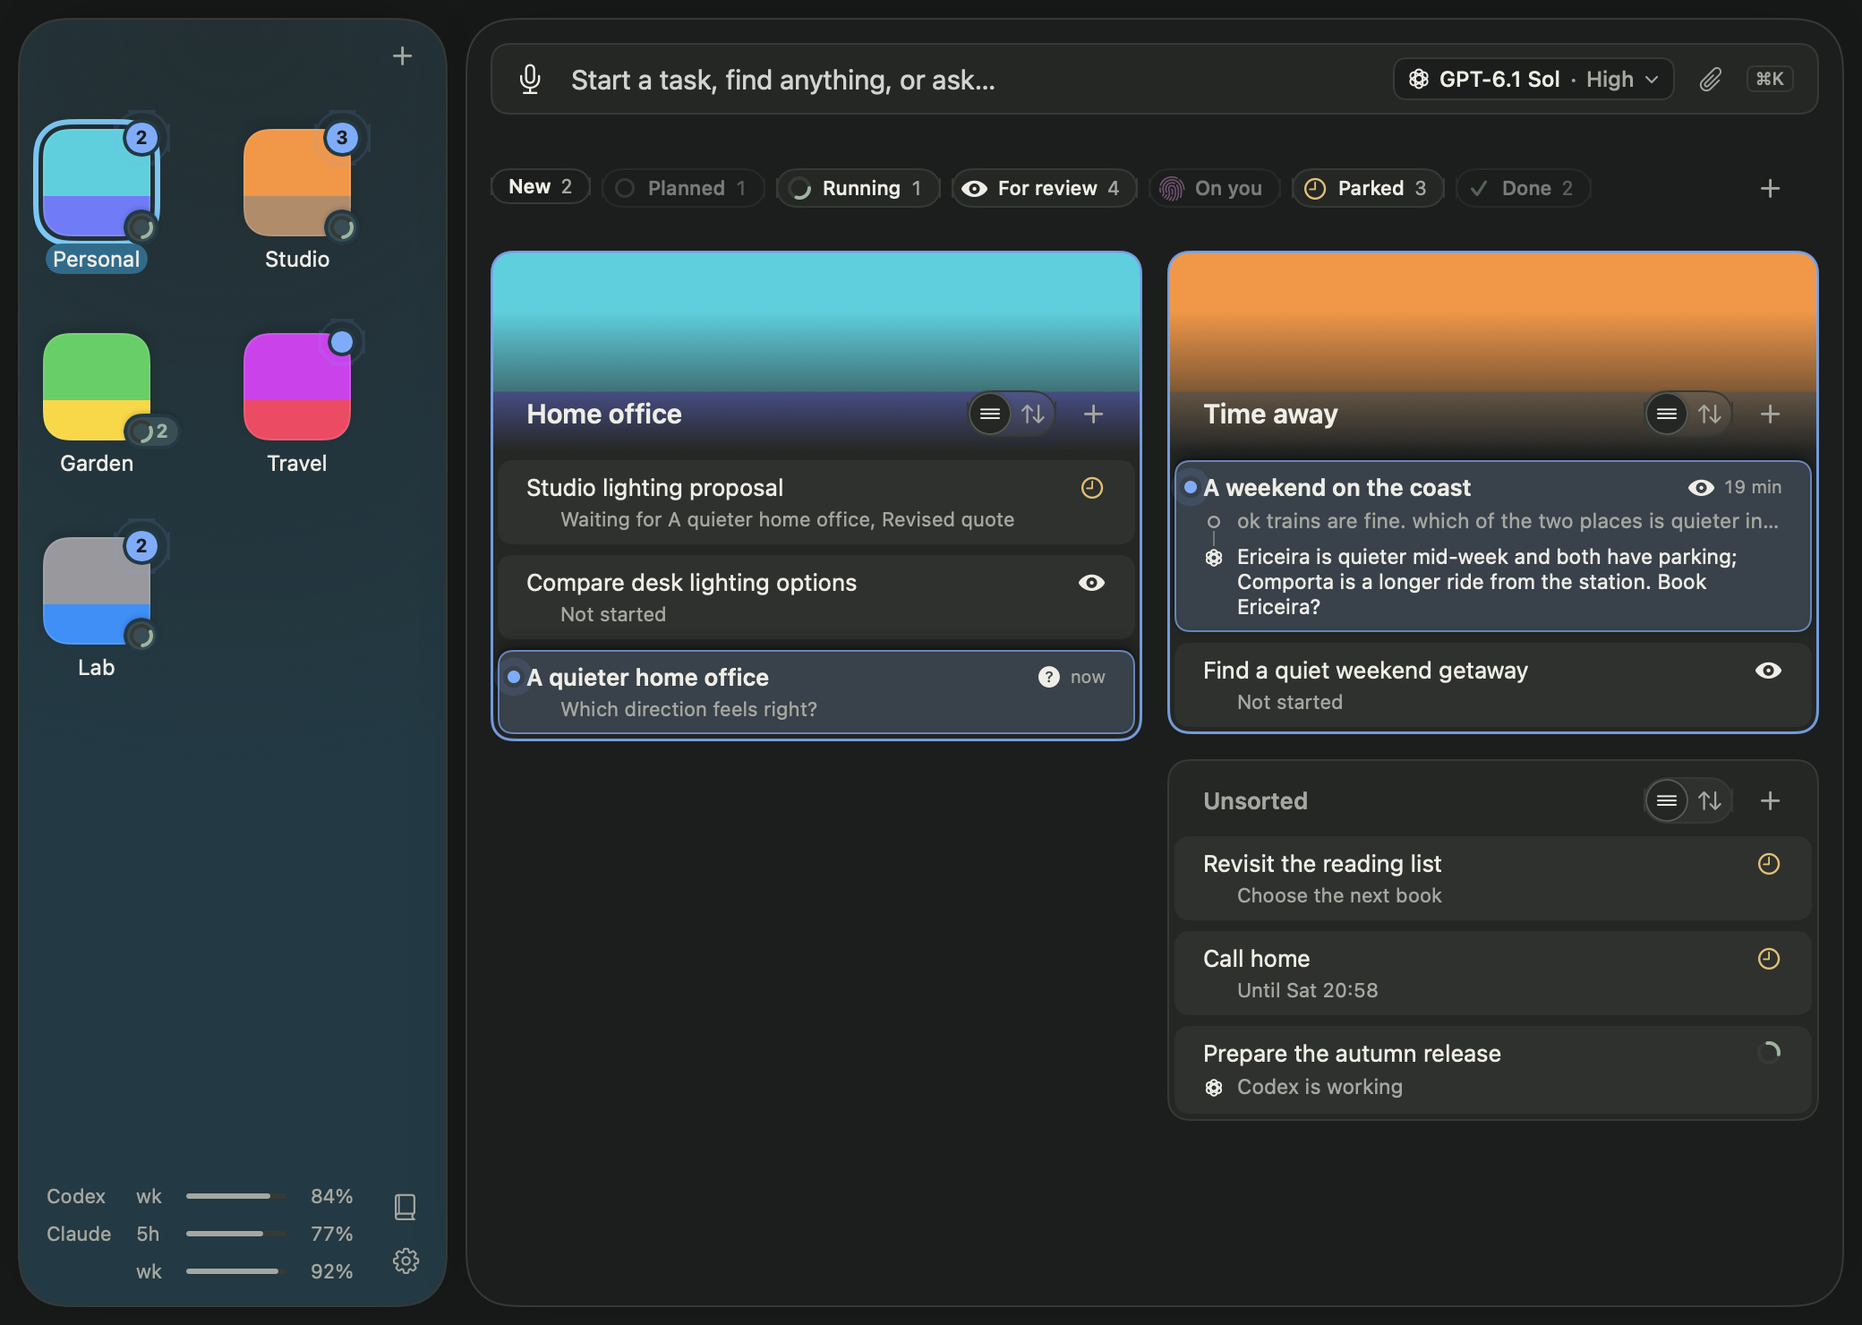
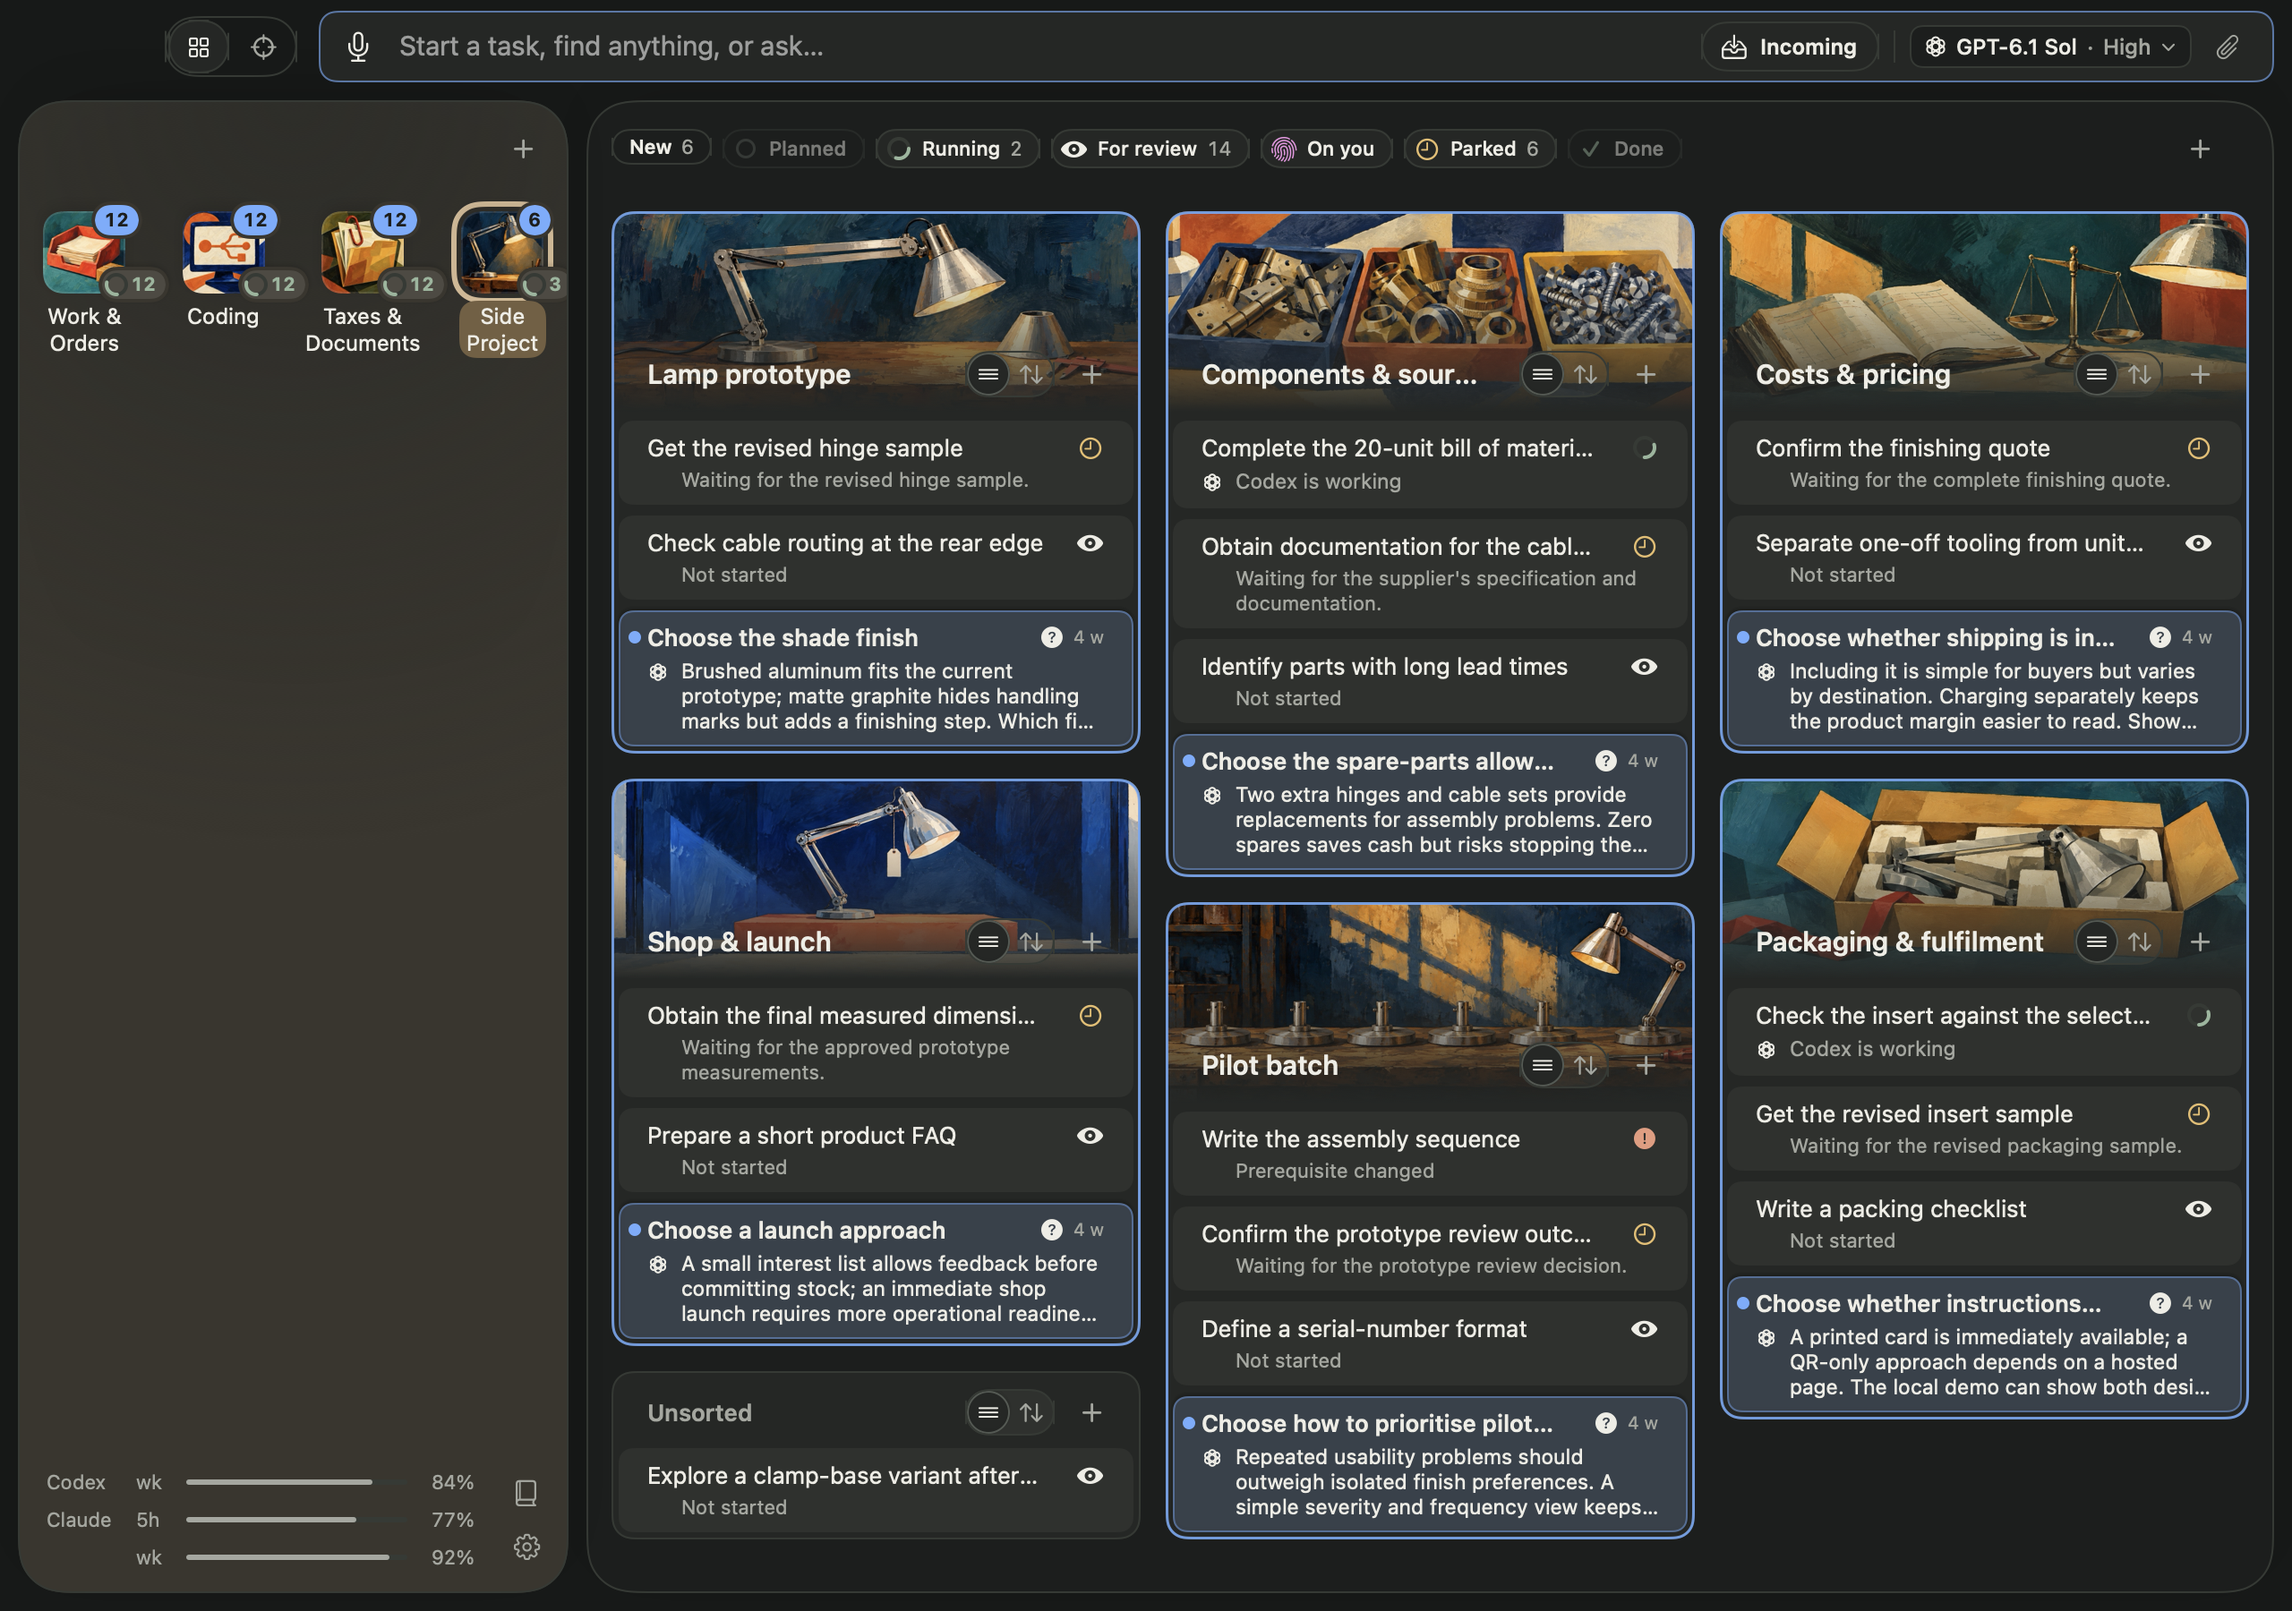
Show the illustrated example workspace in the README

diff --git a/README.md b/README.md
@@ -2,7 +2,7 @@
 
 **Run a dozen projects with AI agents. Forget none of them.**
 
-![Facienda 0.5.0 in dark mode, showing fictional demo workspaces and tasks](Assets/Brand/facienda-app-preview-dark.png)
+![Facienda 0.5.0 in dark mode, showing the fictional Side Project workspace with painterly artwork](Assets/Brand/facienda-app-preview-dark.png)
 
 **[Download for Mac](https://github.com/jostelzer/facienda/releases/latest)** · macOS 26+ · works with Claude Code and Codex · Beta
 
